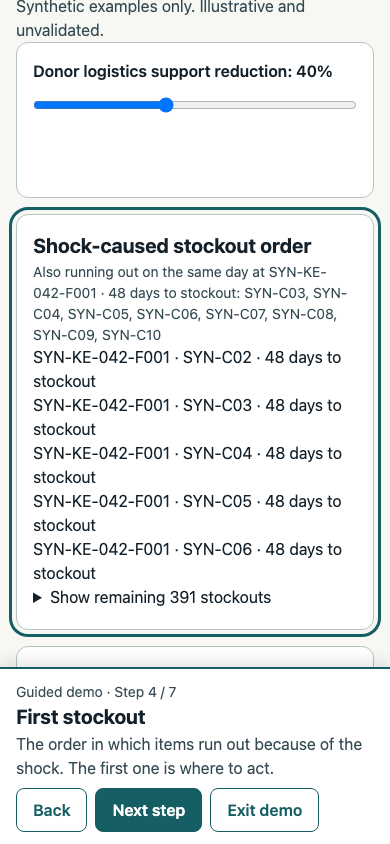
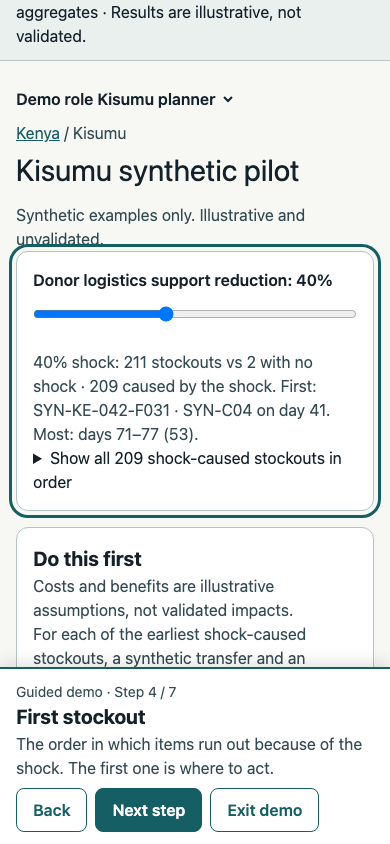
test: verify version 5 end to end and refresh README screenshots

Changed region(s): [[0.0, 0.0, 0.9846, 0.8009], [0.9538, 0.0616, 0.9846, 0.0924]]

diff --git a/apps/web/tests/e2e/kisumu.spec.ts b/apps/web/tests/e2e/kisumu.spec.ts
@@ -50,9 +50,13 @@ test("Kisumu map follows the selected synthetic scenario", async ({
   const watch = page.locator(
     ".facility-marker[aria-label*='Synthetic facility 004']",
   );
-  await expect(watch).toHaveAttribute("aria-label", /Watch.*30 days/, {
-    timeout: 30000,
-  });
+  await expect(watch).toHaveAttribute(
+    "aria-label",
+    /Watch · 26 days to stockout/,
+    {
+      timeout: 30000,
+    },
+  );
   expect(
     await page.evaluate(
       () => document.documentElement.scrollWidth <= innerWidth,

diff --git a/README.md b/README.md
@@ -30,8 +30,8 @@ All screens show synthetic data; every number is illustrative and unvalidated.
 | --- | --- |
 | ![National overview with the guided demo open](docs/screenshots/readme-overview-tour-1280.png) | ![Ranked fixes: funded transfers above the budget cut line, unfunded actions below it](docs/screenshots/readme-ranked-fix-1280.png) |
 | National overview with the guided demo (1280 px) | Ranked fix for the first shock-caused stockout |
-| ![Funding trace for a synthetic stalled release](docs/screenshots/readme-funding-trace-1280.png) | ![Shock-caused stockout order](docs/screenshots/readme-first-stockout-1280.png) |
-| Funding trace: 100,000 KES approved, not released, 90 days | Shock-caused stockout order at 40% |
+| ![Funding trace for a synthetic stalled release](docs/screenshots/readme-funding-trace-1280.png) | ![Shock card with the stockout summary](docs/screenshots/readme-first-stockout-1280.png) |
+| Funding trace: 100,000 KES approved, not released, 90 days | Shock summary at 40%: first stockout and busiest week |
 | ![Guided demo on a phone](docs/screenshots/readme-tour-mobile-390.png) | ![Bin-card capture awaiting human confirmation](docs/screenshots/readme-capture-confirm-390.png) |
 | Guided demo at 390 px | Bin-card capture: nothing is saved until “Confirm and save” |
 
@@ -89,4 +89,4 @@ See [agent rules](AGENTS.md), [current progress](docs/PROGRESS.md), [design appr
 - **Capture is online only and unreviewed for extraction quality.** There is no offline queue. The local stack has no extraction provider, so fields are typed by hand; no real LLM provider has been exercised end to end.
 - **Language.** Swahili strings, and the English-only optimizer explanation, need native-speaker review.
 - **No production sign-in.** The demo uses a server-side proxy with a privileged synthetic token, allowed only in local or staging environments behind external access control.
-- **Performance and design gaps.** The interactive Lighthouse flow meets its performance budget, but layout shift in that flow (0.006–0.203 across runs) is not resolved, and it is not in CI. Bottom navigation, several design states and screenshot review against the approved design are outstanding. See [progress](docs/PROGRESS.md) and [Phase 3 notes](docs/phases/3.md).
+- **Performance and design gaps.** The interactive Lighthouse flow meets its performance budget. Its layout shift ranged from 0.006 to 0.203 in earlier runs; the latest run, after the shock card change, measured 0.001, but one run does not show the issue is resolved. The flow is not in CI. Bottom navigation, several design states and screenshot review against the approved design are outstanding. See [progress](docs/PROGRESS.md) and [Phase 3 notes](docs/phases/3.md).

diff --git a/docs/PROGRESS.md b/docs/PROGRESS.md
@@ -10,6 +10,8 @@ Gitleaks v8.30.1 via Docker scanned 113 commits across all refs and a copy of tr
 
 ## Phase 3: Frontend — current
 
+- Version 5 end-to-end check, 2026-11-08: stopped the user's demo session with the user's permission, started the rebuilt worker, ran `scripts/demo-up.sh` with the rebuilt API, and seeded county generator version 5 (seed 42; 47 planning and 1 pilot snapshots created; older versions remain). The proxy served four planted routes with the first on SYN-KE-042-F031 · SYN-C04. **Playwright 48/48** at four viewports after one data-driven expectation update: at a 100% shock, facility 004 is still Watch but now runs out on day 26 (was day 30 with version 4). **Lighthouse page load:** `/` and `/kisumu` performance 1.00, accessibility 1.00, best practices 0.96. **Interactive ranked flow (one run):** timespan performance 1.00, best practices 0.95, CLS 0.001, TBT 0 ms, INP 30 ms; end snapshot accessibility 1.00, best practices 1.00. Recaptured the ranked-fix, shock-summary and mobile-tour README screenshots from this session; README numbers (211 vs 2, 209 shock-caused, first on day 41, busiest days 71–77, 30/100/5 KES outcomes) were checked against the real backend. The session was left running for the user's review.
+
 - Review fixes, 2026-11-08 (six commits, `248ae6c`…`0089d14`):
   1. **Simultaneous stockouts — cause confirmed.** In county generator versions 1–4, 396 of 400 facility–commodity pairs opened with exactly 30 days of cover (opening stock equal to month-23 consumption, which the simulator treats as daily demand × 30) and every scheduled delivery is exactly 30 days of demand, so at 40% 376 pairs ran out on day 48. Added **generator version 5** (now served; versions 1–4 unchanged, and `generate_kisumu_panel()` still defaults to 4) with cover = lead time + seeded 4–40 days per pair. Seed 42 at 40%: 209 shock-caused stockouts (211 total vs 2 with no shock) from day 41 to day 89 across eight weeks, at most 23 on one day; 0% has no shock-caused events. Planted chronic, neighbor and legacy donor records are kept; the transfer is replanted for the first shock-caused event (SYN-KE-042-F031 · SYN-C04, day 41).
   2. **Coordinates on land.** Checked against OpenStreetMap tiles: 12 of the 40 seed-42 v4 markers sat on Lake Victoria water. Version 5 uses seven inland centers; every point of each center's ±0.003° jitter box (one Nyando candidate failed on a river and was moved) and all 40 seed-42 points were checked on OSM tiles and in the rendered app map. Route distances are recomputed from coordinates and the synthetic-location label is unchanged.
